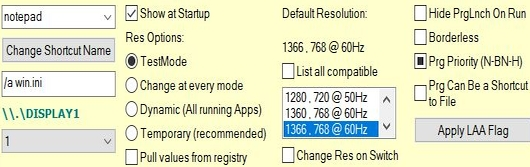
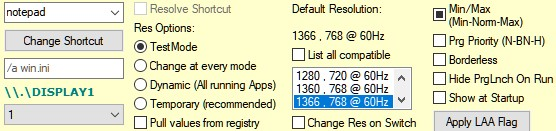
2.0 Beta

diff --git a/Help/PrgLnch FAQ.htm b/Help/PrgLnch FAQ.htm
@@ -11,17 +11,20 @@
 <h1>PrgLnch FAQ</h1>
 About <span style="color: #40e0d0;">P</span> <span style="color: #8b4513;">r</span> <span style="color: #40e0d0;">g</span> <span style="color: #ffd700">L</span><span style="color: #8b4513;">n</span> <span style="color: #40e0d0;">c</span> <span style="color: #8b4513;">h</span>:
 <dl>
-  <dt>Why doesn't PrgLnch detect more than one monitor in a multi monitor setup?</dt>
-  <dd>The extra monitors may be configured as <a href="https://msdn.microsoft.com/en-us/library/windows/desktop/dd145179%28v=vs.85%29.aspx?f=255&MSPPError=-2147217396">independent displays</a>, or using either <a href="https://en.wikipedia.org/wiki/AMD_Eyefinity">Eyefinity</a> or <a href="https://www.geforce.com/hardware/technology/surround/system-requirements">NVIDIA Surround</a> .
+  <dt href="#" id="PrgLnchShortcut">What is a PrgLnch Shortcut?</dt>
+  <dd>A PrgLnch Shortcut, or template for a Prg, isn't a Windows shortcut, but a kind of extension of it. Most of the items in <a href="PrgLnch Config/PrgLnch Config.htm"> PrgLnch Config </a> can be considered to make up a PrgLnch shortcut. These items allow the Prg various monitor and resolution settings, and much more.
+ The <a href="PrgLnch Config/PrgLnch Config.htm#ModifyShortcut">Make Shortcut</a> button and dialog can launch Windows shortcut files, but in not modifying them, they are able to <a href="PrgLnch Config/PrgLnch Config.htm#ResolveShortcut">resolve</a> them for extra options in the dialog.</dd>
+ <dt>Why doesn't PrgLnch detect more than one monitor in a multi monitor setup?</dt>
+ <dd>The extra monitors may be configured as <a href="https://msdn.microsoft.com/en-us/library/windows/desktop/dd145179%28v=vs.85%29.aspx?f=255&MSPPError=-2147217396">independent displays</a>, or using either <a href="https://en.wikipedia.org/wiki/AMD_Eyefinity">Eyefinity</a> or <a href="https://www.geforce.com/hardware/technology/surround/system-requirements">NVIDIA Surround</a> .
  </dd>
   <dt>Can PrgLnch run in more than one instance?</dt>
   <dd>No. At this stage there is no provision in the code even if it were run from different locations on the same machine.</dd>
   <dt>Does PrgLnch create or delete files?</dt>
-  <dd>PrgLnch creates an <B>ini</B> file, 3 <B>jpg</B>s and one <B>chm</B> file each time it is run. Provided PrgLnch is terminated by the <a href="PrgLnch Batch/PrgLnch Batch.htm#QuitPrgLnch">Quit_PrgLnch</a> button all files excepting PrgLnch.ini are erased each run.
+  <dd>PrgLnch creates an <B>ini</B> file, 3 <B>jpg</B>s and one <B>chm</B> file each time it is run. Provided PrgLnch is terminated by the <a href="PrgLnch Batch/PrgLnch Batch.htm#QuitPrgLnch">Quit_PrgLnch</a> button, all files excepting PrgLnch.ini are erased at the close of every run.</dd>
   <dt>How is data saved to the <B>ini</B> file?</dt>
   <dd>PrgLnch writes every time configurational changes are made in PrgLnch. If there is no <B>ini</B> file in the folder the script is run from, PrgLnch creates a new one.</dd>
   <dt>Are there issues with security or UAC</dt>
-  <dd>PrgLnch runs at the level of the invoker. If it is run from a location where there are restricted permissions on files, it may not be able to write, create or delete any files it uses.
+  <dd>PrgLnch runs at the level of the invoker. If it is run from a location where there are restricted permissions on files, it may not be able to write, create or delete any files it uses.</dd>
  <dt href="#" id="PrgCancellation">Can launched Prgs be cancelled by PrgLnch?</dt>
   <dd>Yes. If Prglnch fails to close a Prg it will attempt to force terminate it. If the termination fails, the Prg is no longer considered active and other methods will have to be employed to address the issue. However, if the Prg launches other processes, they will not be cancelled.
  </dd>
@@ -30,28 +33,34 @@ About <span style="color: #40e0d0;">P</span> <span style="color: #8b4513;">r</sp
  </dd>
   <dt>Can PrgLnch forms be postioned of the currently used (default) display?</dt>
   <dd>Possible if target resolutions are less than 1024 pixels wide. A hotkey combination (CTRL-ALT-P) should bring the window to the location of the mouse. Another edge case is if when the screen height is less than 600 pixels, <a href="PrgLnch Properties/PrgLnch Properties.htm">PrgLnch Properties</a> may clip off the top edge of the display. 
- </dd>
+</dd>
   <dt>Can a Prg exhibit different behaviour when run from an explorer folder or desktop shortcut instead of from within PrgLnch?</dt>
-  <dd>Yes, even if PrgLnch settings for it match the "native" environment, See <a href="https://autohotkey.com/boards/viewtopic.php?f=5&t=29200">here</a> for an example. It also helps to check the environment requisites in the Prg's documentation, as it may set its own dedicated resolution mode for execution.
- </dd>
- <dt>What are the limitations of PrgLnch?</dt>
+  <dd>Yes, even when PrgLnch settings for Prg match the "native" environment. See <a href="https://autohotkey.com/boards/viewtopic.php?f=5&t=29200">here</a> for an example. It also helps to check the environment requisites in the Prg's documentation, as it may set its own dedicated resolution mode for execution.</dd>
+ <dt href="#" id="Limitations">What are the limitations of PrgLnch?
+</dt>
   <dd>It can manage up to and including 12 Prgs but no more than 6 can be run through a batch at a time. As AutoHotKey <I>v</I>. 1.x does not <a href="https://autohotkey.com/boards/viewtopic.php?f=5&t=13941">support long paths</a>, so PrgLnch does not.
- <dt href="#" id="ScreenSavers">Can PrgLnch run Screensavers in other Monitors?</dt>
-  <dd>Yes. One of the quirks of Windows is that screensaver animations are run only from shortcuts (<B>lnk</B> files),- so if running a <B>lnk</B>, check the <a href="PrgLnch Config/PrgLnch Config.htm#PrgCanBeShortcutToFile">Prg Can  Be a Shortcut to File</a>  box, else their Properties dialogs will be displayed.
+</dd>
+ <dt href="#" id="ScreenSavers">Can PrgLnch run Screensavers on other Monitors?</dt>
+  <dd>Yes. One of the quirks of Windows is that screensaver animations are run only from shortcuts (<B>lnk</B> files),- so if running a <B>lnk</B>, uncheck the <a href="PrgLnch Config/PrgLnch Config.htm#ResolveShortcut">Resolve Shortcut</a> box, else the screensaver Properties dialogs are displayed.
  </dd>
-  <dt>Why does PrgLnch produce a <a href="https://autohotkey.com/docs/FAQ.htm#Virus">virus alert</a> ?</dt>
+  <dt>Why does PrgLnch produce a <a href="https://autohotkey.com/docs/FAQ.htm#Virus">virus alert</a>?</dt>
   <dd>It's possible the vendor of the antivirus program has not analysed the file yet. If the issue will not resolve, please refer to any notifications provided on one of these <a href="About PrgLnch.htm#Links">links</a>.
  </dd>
   <dt>Why doesn't a Prg run on a certain monitor?</dt>
   <dd>They should, However some older programs (e.g. those compiled in VB6) only run on the primary monitor, regardless of the Prglnch setting. Occasionally displays are fully functional only when systems running certain drivers are rebooted after monitors are added or reconfigured.
  </dd>
-  <dt href="#" id="Del">Pressing the <B>Del</B> key deletes entire contents of the Edit Box without undo.</dt>
-  <dd>By "design." Text tracking routines would impact the performance of PrgLnch. A combination of <B>Backspace</B> and the <B>Home</B>/<B>Arrow</B>/<B>End</B> keys provide equivalent functionality.
+  <dt>Why does PrgLnch show just one monitor and one resolution?
+</dt>
+  <dd>Have the video drivers been uninstalled? Can happen when Device Manager shows more than one <I>Generic PnP</I> monitor in the Monitors section. Alterntively, if the display driver OEMs detect other operating systems on your machine, they may not then strictly adhere to the <a href="https://technet.microsoft.com/en-us/windows/dn932166%28v=vs.92%29?f=255&MSPPError=-2147217396">WDDM</a> model. 
+To see a better range of monitors and resolutions, install the <a href="https://support.microsoft.com/en-au/help/4026648/windows-microsoft-basic-display-adapter-on-windows-10">Microsoft Basic Display Adapter</a>.
+ </dd>
+  <dt href="#" id="Del">Pressing the <B>Del</B> key deletes entire contents of an Edit Box without undo.</dt>
+  <dd>By "design." Text tracking routines would impact the performance of PrgLnch. A combination of <B>Backspace</B> and the <B>Home</B>/<B>Arrow</B>/<B>End</B> keys provide equivalent functionality. for a future release.
  </dd>
   <dt href="#" id="Browser">New browser instances opened through PrgLnch cannot be controlled by PrgLnch.
 </dt>
   <dd>Modern browsers typically run under one process ID, so they require different handling, currently not on offer by PrgLnch.
- </dd>
+</dd>
 
 </dl>
 

diff --git a/Help/About PrgLnch.htm b/Help/About PrgLnch.htm
@@ -16,14 +16,68 @@ About <span style="color: #40e0d0;">P</span> <span style="color: #8b4513;">r</sp
   <dt>Language & Environment</dt>
   <dd><a href="https://autohotkey.com/">Autohotkey</a> & <a href="https://notepad-plus-plus.org//">N++</a></dd>
   <dt>Version</dt>
-  <dd>1.3.2, March 2019: initial release March 2017</dd>
+  <dd>2.0.0, March 2019: initial release March 2017</dd>
   <dt>License</dt>
   <dd><a href="https://github.com/lmstearn/PrgLnch/blob/master/MIT_License.txt">MIT license</a> </dd>
   <dt href="#" id="Links">Links</dt>
   <dd><a href="http://www.theassimilationlab.com/forums/files/file/1314-prglnch/">Assimilation Lab</a>, <a href="https://autohotkey.com/boards/viewtopic.php?f=19&t=29175">AutoHotkey</a>, <a href="https://github.com/lmstearn/PrgLnch/wiki">GitHub</a>
  </dd>
 </dl>
+<h1>Changelog</h1>
+<dl>
+<dt>1.1 Update:</dt>
+<dd>Fix Prg removal while active in both test and batch modes.</dd>
+<dd>Fixed launch splash not showing when Status_doubleclick.</dd>
+<dd>Fixed no updates on active on select a new preset.</dd>
+<dd>Disabled Buttons during launch.</dd>
+<dd>Improved Prg Cancel Routines.</dd>
 
-
+<dt>1.2 Update:</dt>
+<dd>Pictorial Aids added to Help: Getting Started,</dd>
+<dd>Fixed Prgs not running in additional monitors.</dd>
+<dd>Enhanced, repaired and refactored multi-monitor functionality.</dd>
+<dd>Extra Ini file settings.</dd>
+<dd>Repaired the Prg cleanup routine.</dd>
+<dd>Improved Res changes switching from PrgLnch to Prgs.</dd>
+<dt>1.2.1 Update:</dt>
+<dd>Help file enhancements.</dd>
+<dt>1.2.2 Update:</dt>
+<dd>Fixed clipped Properties Screen.</dd>
+<dd>Fixed unused monitor slots 0.</dd>
+<dd>Fixed All Compatible Res modes.</dd>
+<dd>Click Monitor for Tooltip info.</dd>
+<dt>1.2.3 Update:</dt>
+<dd>Fixed Make Shortcut check for Prgs 10-12.</dd>
+<dd>Fixed Wrong Working directory in Lnch.</dd>
+<dt>1.2.4 Update:</dt>
+<dd>Fixed Shortcuts once more.</dd>
+<dt>1.2.5 Beta:</dt>
+<dd>Fix WorkingDir_BackTo.</dd>
+<dd>Kill Props on GoConfig.</dd>
+<dt>1.3.0 Update:</dt>
+<dd>Fixed CmdLine active on lnk.</dd>
+<dd>Fixed Presets Deletion.</dd>
+<dd>Fixed help context not firing in Opt.</dd>
+<dd>Fixed wrong PrgChoice Prompt.</dd>
+<dd>Fixed Preset Names.</dd>
+<dd>Overhauled Update URL.</dd>
+<dd>Extended Help topics.</dd>
+<dd>Minor Bug Fixes.</dd>
+<dd>Del hotkey: Feature or ...?</dd>
+<dt>1.3.1 Update:</dt>
+<dd>Versioning overhaul.</dd>
+<dd>Corrected PrgCanBeShortct.</dd>
+<dd>Fixed wrong Splash Image install.</dd>
+<dd>Check URL types.</dd>
+<dt>2.0 Update:</dt>
+<dd>Removed bad variable assignments.</dd>
+<dd>Upgrade old ini files.</dd>
+<dd>Restart Admin on access error.</dd>
+<dd>Re-integration of Resolve Shortcuts.</dd>
+<dd>Handles Windows associations.</dd>
+<dd>Min-Normal-Max Window launched Prgs.</dd>
+<dd>Detect running Prgs on PrgLnch init.</dd>
+<dd>Code & Help files through the rinser.</dd>
+</dl>
 </BODY>
 </HTML>

diff --git a/Help/Getting Started.htm b/Help/Getting Started.htm
@@ -21,11 +21,11 @@ PrgLnch opens with the <a href="PrgLnch Batch/PrgLnch Batch.htm">PrgLnch Batch</
 </p>
 <h2>Adding a Shortcut to a Prg</h2>
 <p>
-Consider checking <a href="PrgLnch Config/PrgLnch Config.htm#PrgCanBeShortcutToFile">Prg can be a shortcut to a file</a> if an actual shortcut, or <I>lnk</I> file is to be used instead of a program file. Type in a name for the Prg (optional), then click the <a href="PrgLnch Config/PrgLnch Config.htm#ModifyShortcut">Make Shortcut</a> button underneath to navigate to the  location of the file. For example, navigate to <I>C:\Windows</I> to locate <I>Notepad.exe</I>.<br>
+Consider leaving <a href="PrgLnch Config/PrgLnch Config.htm#ResolveShortcut">Shortcut Nav. (Dlg)</a> unchecked if an actual shortcut, or <I>lnk</I> file is to be used instead of a program file. Type in a name for the Prg (optional), then click the <a href="PrgLnch Config/PrgLnch Config.htm#ModifyShortcut">Make Shortcut</a> button underneath to navigate to the  location of the file. For example, navigate to <I>C:\Windows</I> to locate <I>Notepad.exe</I>.<br>
 </p>
 <h2>Configure Prg Settings</h2>
 <p>
-If desired, change the monitor &amp; resolution, and opt for <a href="PrgLnch Config/PrgLnch Config.htm#TestMode">TestMode</a> along with other selections of your choice. In the following graphic, wini.ini is opened as an ANSII file with the text in <a href="PrgLnch Config/PrgLnch Config.htm#CmdLineExtras">Command Line Extras</a>. Later on, we''ll see what happens when opening it with a <B><I>/w </I></B>switch instead!
+If desired, change the monitor &amp; resolution, and opt for <a href="PrgLnch Config/PrgLnch Config.htm#TestMode">TestMode</a> along with other selections of your choice. Here, the Prg will launch at below normal priority. In the following graphic, wini.ini is opened as an ANSII file with the text in <a href="PrgLnch Config/PrgLnch Config.htm#CmdLineExtras">Command Line Extras</a>. Later on, we''ll see what happens when opening it with a <B><I>/w </I></B>switch instead!
 <img src="PrgOptions.jpg" width="" height="" alt="">
 </p>
 
